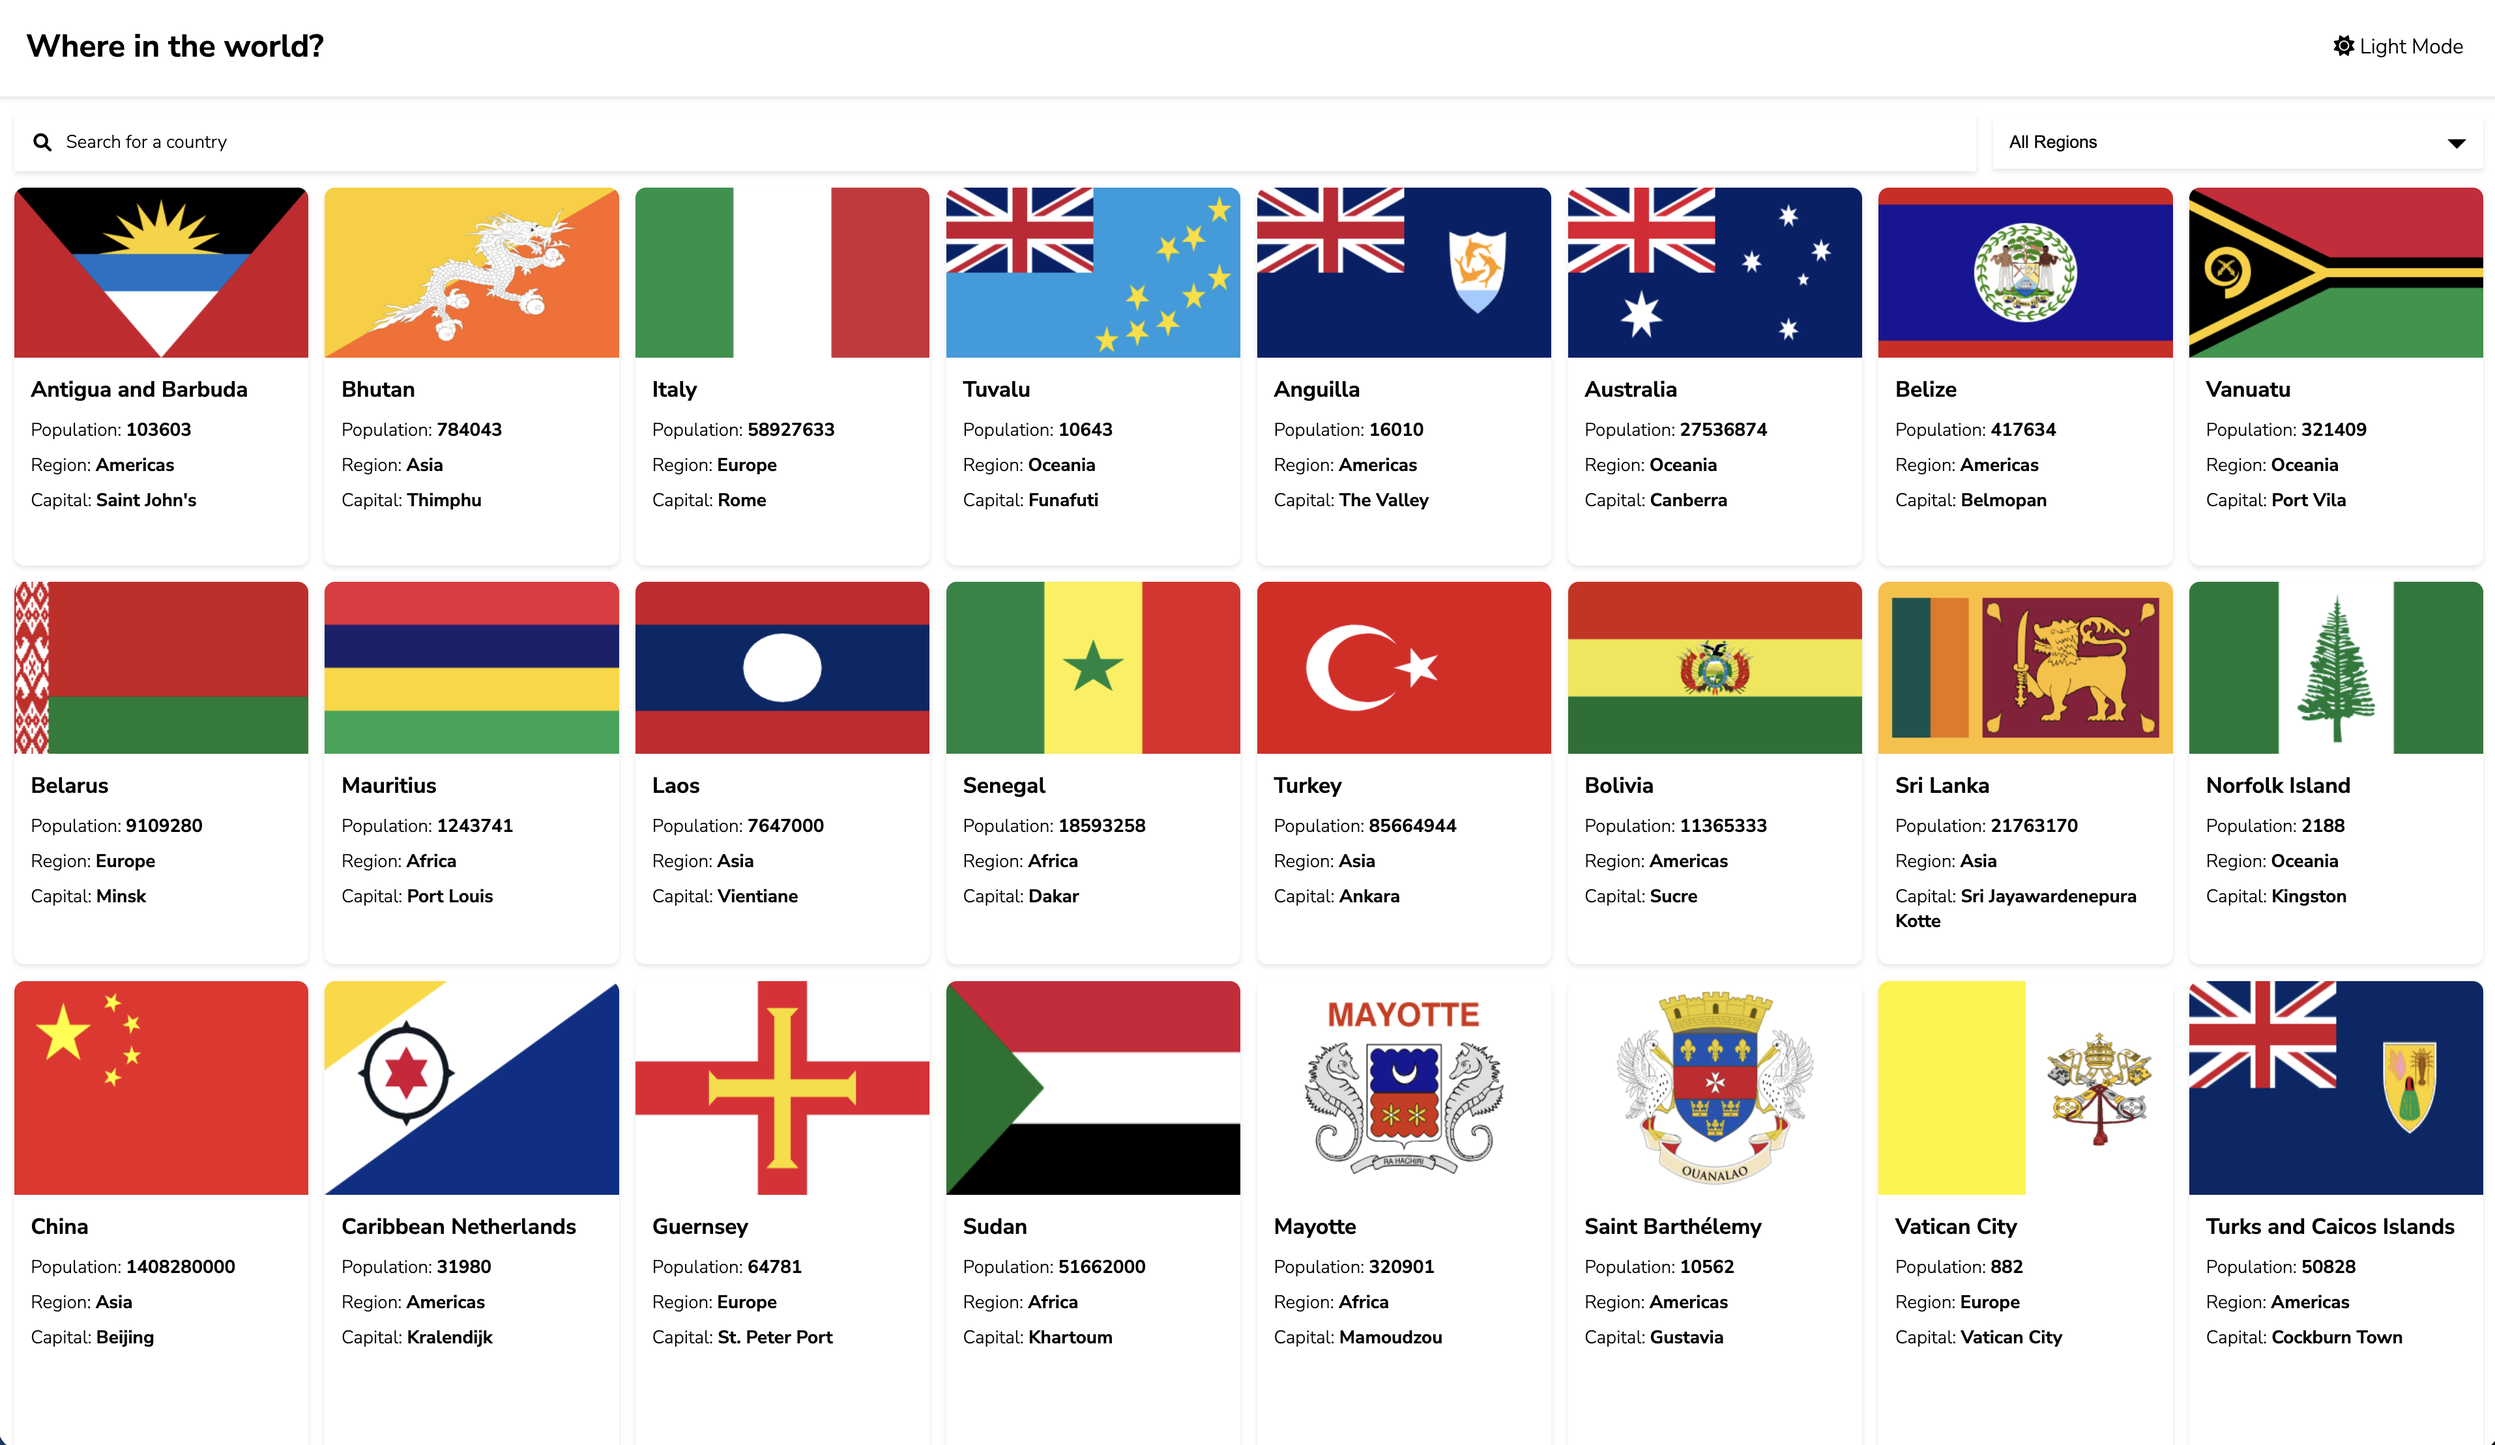
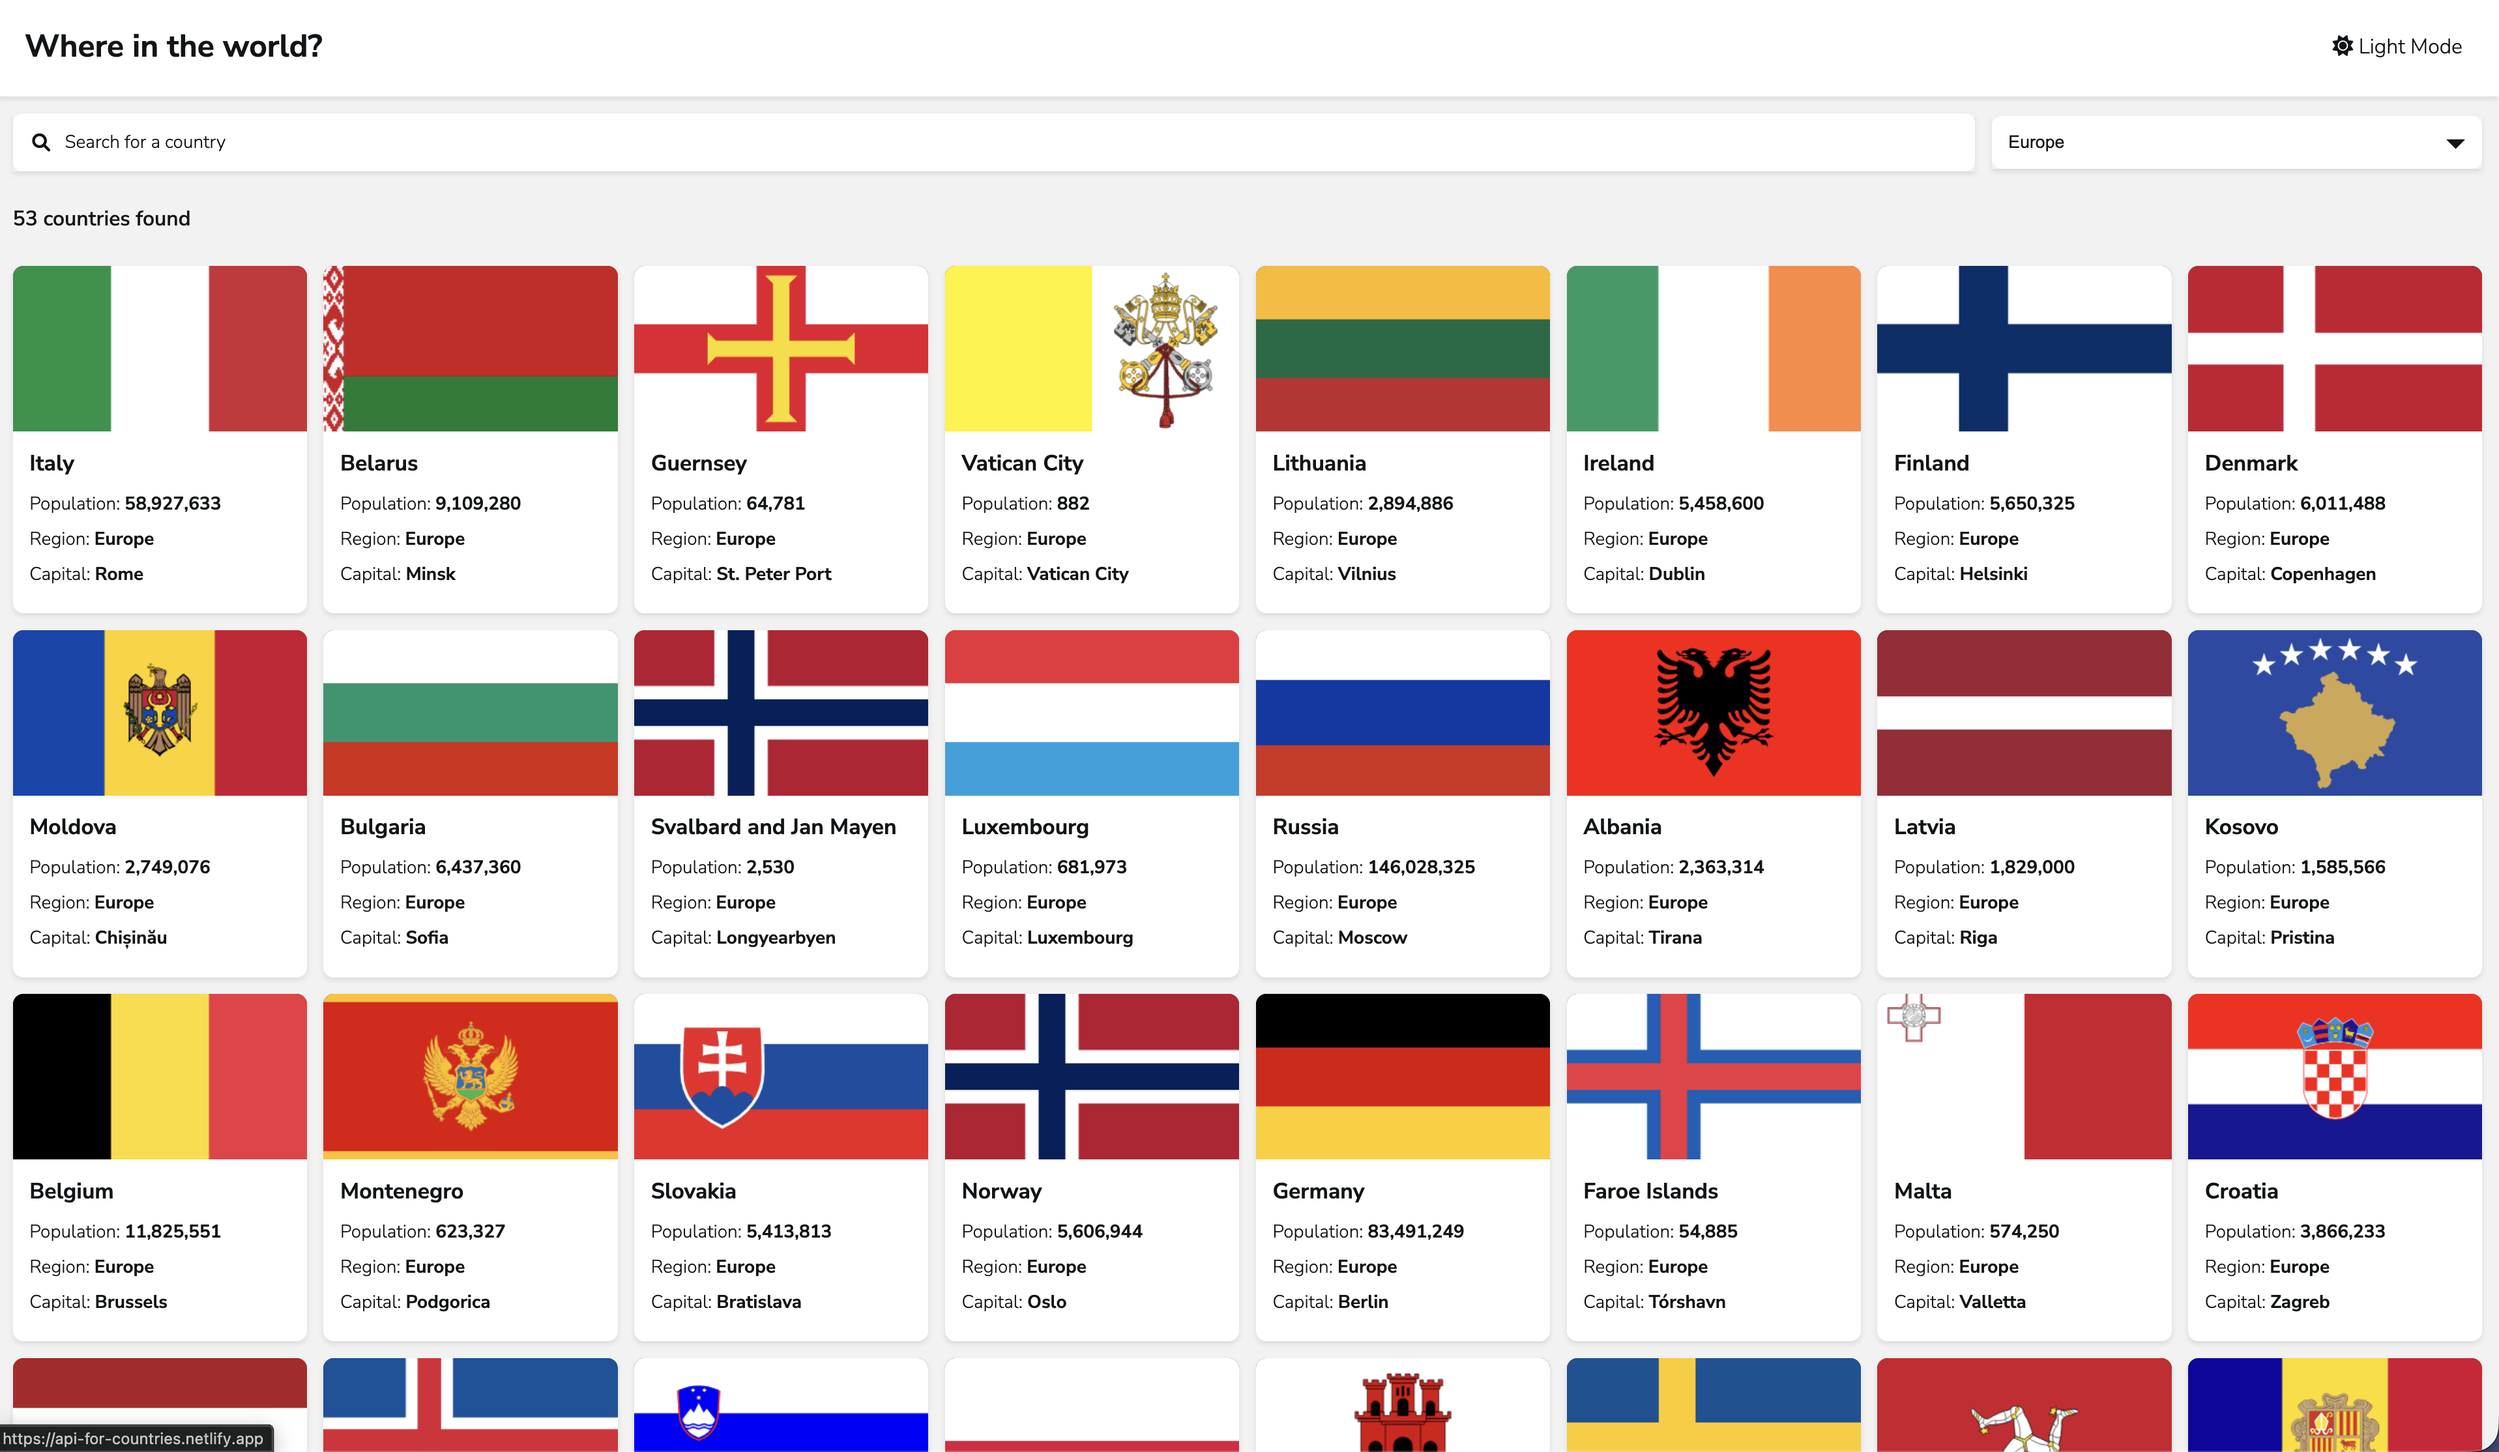
docs: update README to reflect new Vue.js features, improved performance, and enhanced user experience; update screenshot

diff --git a/README.md b/README.md
@@ -1,6 +1,6 @@
 # Countries REST API
 
-Search and filter country data with REST API integration, demonstrating async JavaScript patterns and responsive design.
+A modern Vue.js application for searching and filtering country data with REST API integration, featuring dark mode, responsive design, and smooth transitions.
 
 ![Countries API](/Screenshot.png)
 
@@ -8,65 +8,82 @@ Search and filter country data with REST API integration, demonstrating async Ja
 
 ## Tech Stack
 
-- **JavaScript (ES6+)** - Async/await, fetch API, array methods
-- **HTML5** - Semantic markup with ARIA attributes
-- **CSS3** - Responsive grid layout with mobile-first approach
+- **Vue.js 3** - Composition API, reactive state management
+- **Vue Router** - Client-side routing with dynamic routes
+- **Axios** - HTTP client for API requests
+- **Vite** - Fast build tool and development server
 - **REST Countries API** - Third-party data source
+- **CSS3** - Responsive grid layout with mobile-first approach
 
 ## Features
 
-- Real-time search with debounced input for performance
+- Real-time search with debounced input for optimal performance
 - Multi-select region filtering with URL state persistence
-- Responsive card grid adapting to viewport size
-- Loading states and error handling for async operations
-- Lazy loading for country detail images
+- Fully responsive design adapting to all screen sizes
+- Dark/Light theme toggle with persistent preference
+- Loading states and skeleton screens for better UX
+- Smooth page transitions and animations
+- Shareable country detail pages via URL routing
+- Optimized bundle splitting and lazy loading
 
 ## Technical Implementation
 
 ### Architecture
-Modular JavaScript structure with separation of concerns: API service layer, UI rendering functions, and state management through closure patterns.
+Modern Vue.js 3 application using Composition API with:
+- **Component-based architecture** - Reusable Vue components (CountryList, CountryDetails, SearchFilter)
+- **Composables** - Custom composables for theme management and debouncing
+- **Service layer** - Centralized API service with Axios for all HTTP requests
+- **Vue Router** - Client-side routing with dynamic routes and scroll behavior
 
-### Key Challenges Solved
-1. **Search Performance**: Implemented 300ms debounce on search input to prevent excessive API calls while maintaining responsive feel
-2. **State Management**: Used URL parameters to persist filter state, enabling shareable links and browser back/forward navigation
-3. **Error Handling**: Implemented comprehensive try-catch blocks with user-friendly error messages and retry mechanisms
+## Project Structure
 
-### Performance Optimizations
-- Debounced search input reduces API calls by ~85%
-- Intersection Observer for lazy loading images below fold
-- CSS containment on card elements improves paint performance
-- Template literals cached in closure to avoid repeated parsing
-
-## Metrics
-
-| Metric | Score |
-|--------|-------|
-| Lighthouse Performance | 49 |
-| Lighthouse Accessibility | 91 |
-| Lighthouse Best Practices | 69 |
-| Lighthouse SEO | 91 |
-| Initial Load Time | ~630ms |
-| Time to Interactive | ~120ms |
+```
+src/
+├── components/          # Vue components
+│   ├── CountryList.vue
+│   ├── CountryDetails.vue
+│   └── SearchFilter.vue
+├── composables/         # Reusable composition functions
+│   ├── useDebounce.js
+│   └── useTheme.js
+├── services/            # API service layer
+│   └── api.js
+├── utils/               # Utility functions
+│   └── formatters.js
+├── router.js            # Vue Router configuration
+├── App.vue              # Root component
+└── main.js              # Application entry point
+```
 
 ## Installation
+
 ```bash
 # Clone repository
 git clone https://github.com/mrkteq/rest-countries-api.git
 
-# Open index.html in browser
-# No build process required
+# Navigate to project directory
+cd rest-countries-api
+
+# Install dependencies
+npm install
+
+# Start development server
+npm run dev
+
+# Build for production
+npm run build
+
+# Preview production build
+npm run preview
 ```
+
+## Development
+
+The development server will start on `http://localhost:5173` (or the next available port).
 
 ## Deployment
 
-Deployed on Netlify with automatic HTTPS and global CDN distribution.
-
-## Browser Support
-
-- Chrome (latest)
-- Firefox (latest)
-- Safari (latest)
-- Edge (latest)
+Deployed on Netlify with automatic HTTPS and global CDN distribution. The build process uses Vite to create an optimized production bundle.
 
 ## License
 
